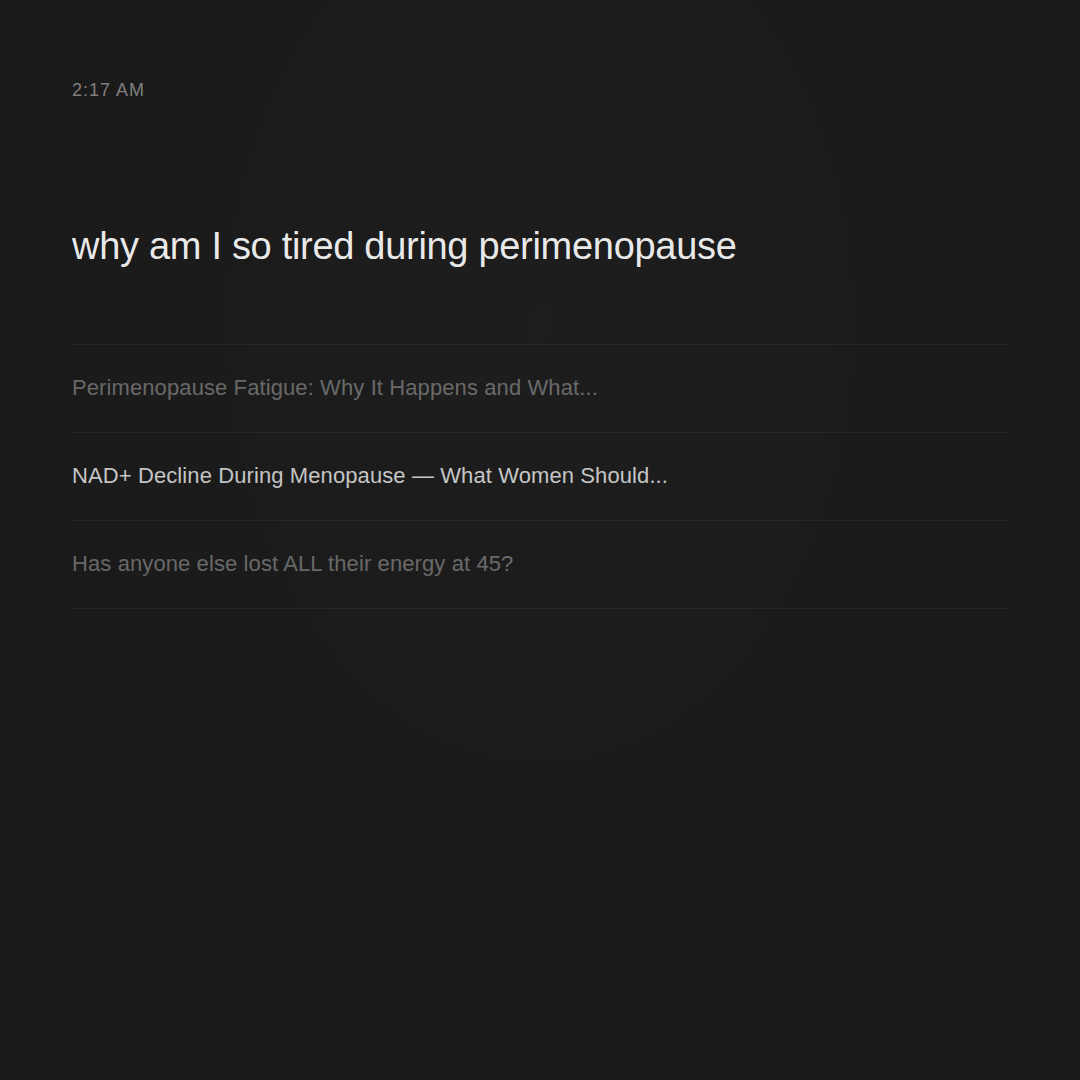
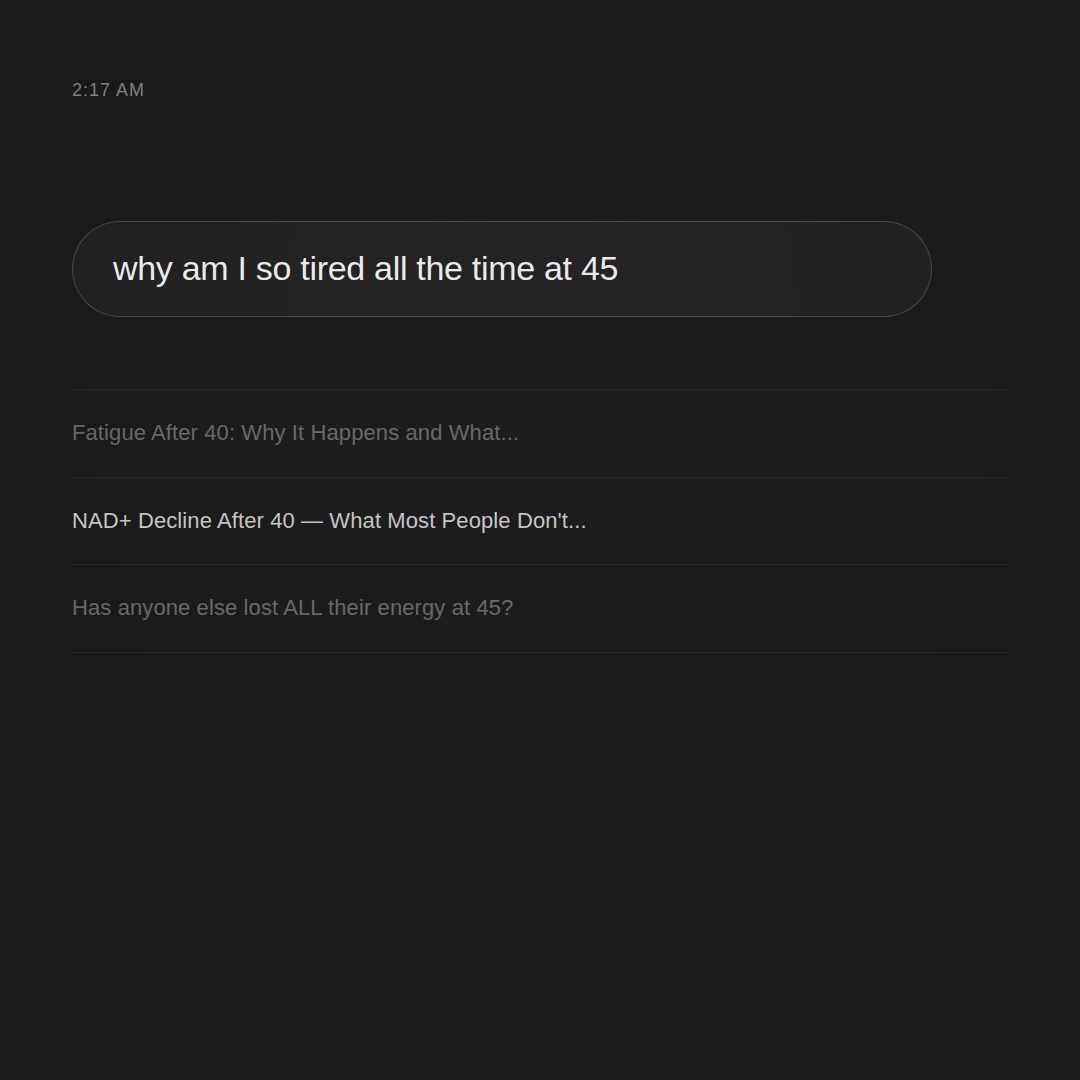
Update B2C3: remove perimenopause (Meta flag risk), add search bar oval
Replaced "perimenopause" with age-based language ("tired all the time
at 45") to avoid Meta health condition flags. Added rounded search bar
border around query for more realistic look.

https://claude.ai/code/session_01HRHRJ5xvoNgSZb9DygExHC

diff --git a/current-brand/ads/ad-creatives/batch-2/B2C3_2AM_Research.html b/current-brand/ads/ad-creatives/batch-2/B2C3_2AM_Research.html
@@ -49,13 +49,20 @@
     margin-bottom: 120px;
   }
 
+  .search-bar {
+    border: 1.5px solid rgba(255, 255, 255, 0.18);
+    border-radius: 999px;
+    padding: 24px 40px;
+    margin-bottom: 72px;
+    max-width: 860px;
+    background: rgba(255, 255, 255, 0.03);
+  }
+
   .search-query {
-    font-size: 38px;
+    font-size: 34px;
     font-weight: 400;
     color: rgba(255, 255, 255, 0.92);
     line-height: 1.35;
-    margin-bottom: 72px;
-    max-width: 800px;
     letter-spacing: -0.3px;
   }
 
@@ -105,15 +112,17 @@
 <div class="canvas" id="capture">
   <div class="timestamp">2:17 AM</div>
 
-  <div class="search-query">why am I so tired during perimenopause</div>
+  <div class="search-bar">
+    <div class="search-query">why am I so tired all the time at 45</div>
+  </div>
 
   <div class="results">
     <div class="result-item">
-      <div class="result-text">Perimenopause Fatigue: Why It Happens and What...</div>
+      <div class="result-text">Fatigue After 40: Why It Happens and What...</div>
     </div>
 
     <div class="result-item highlight">
-      <div class="result-text">NAD+ Decline During Menopause — What Women Should...</div>
+      <div class="result-text">NAD+ Decline After 40 — What Most People Don't...</div>
     </div>
 
     <div class="result-item">
